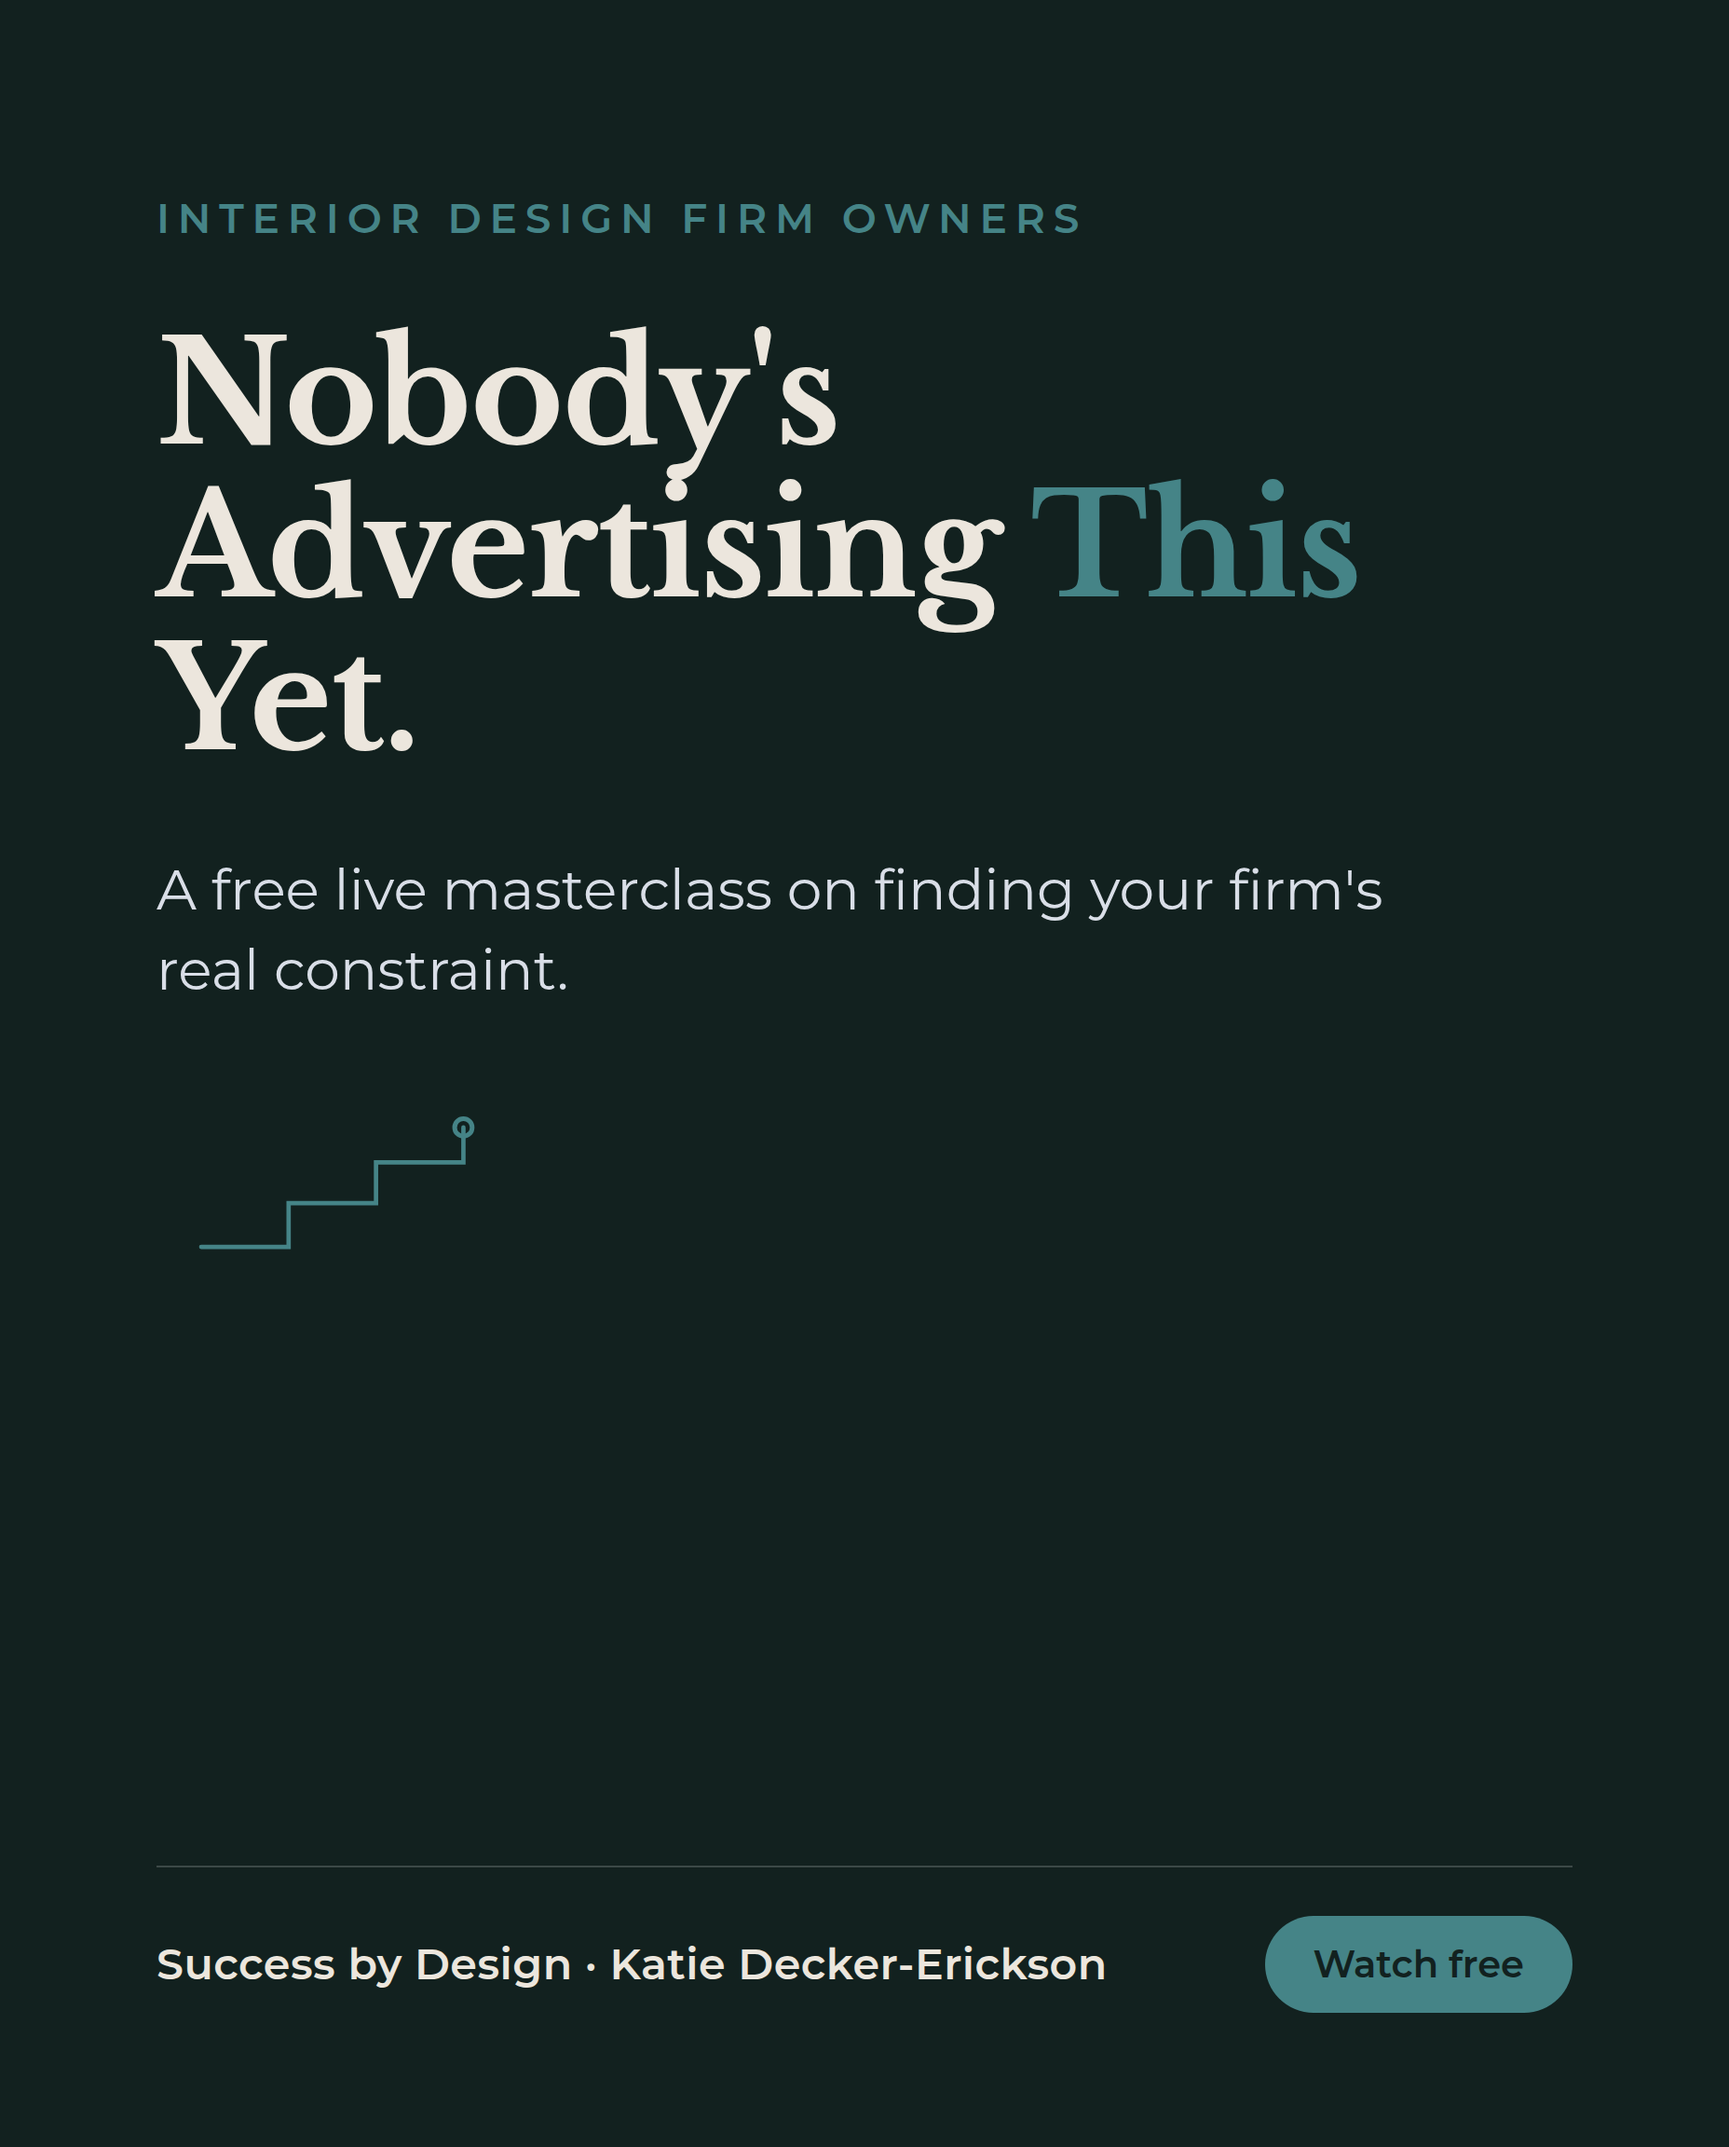
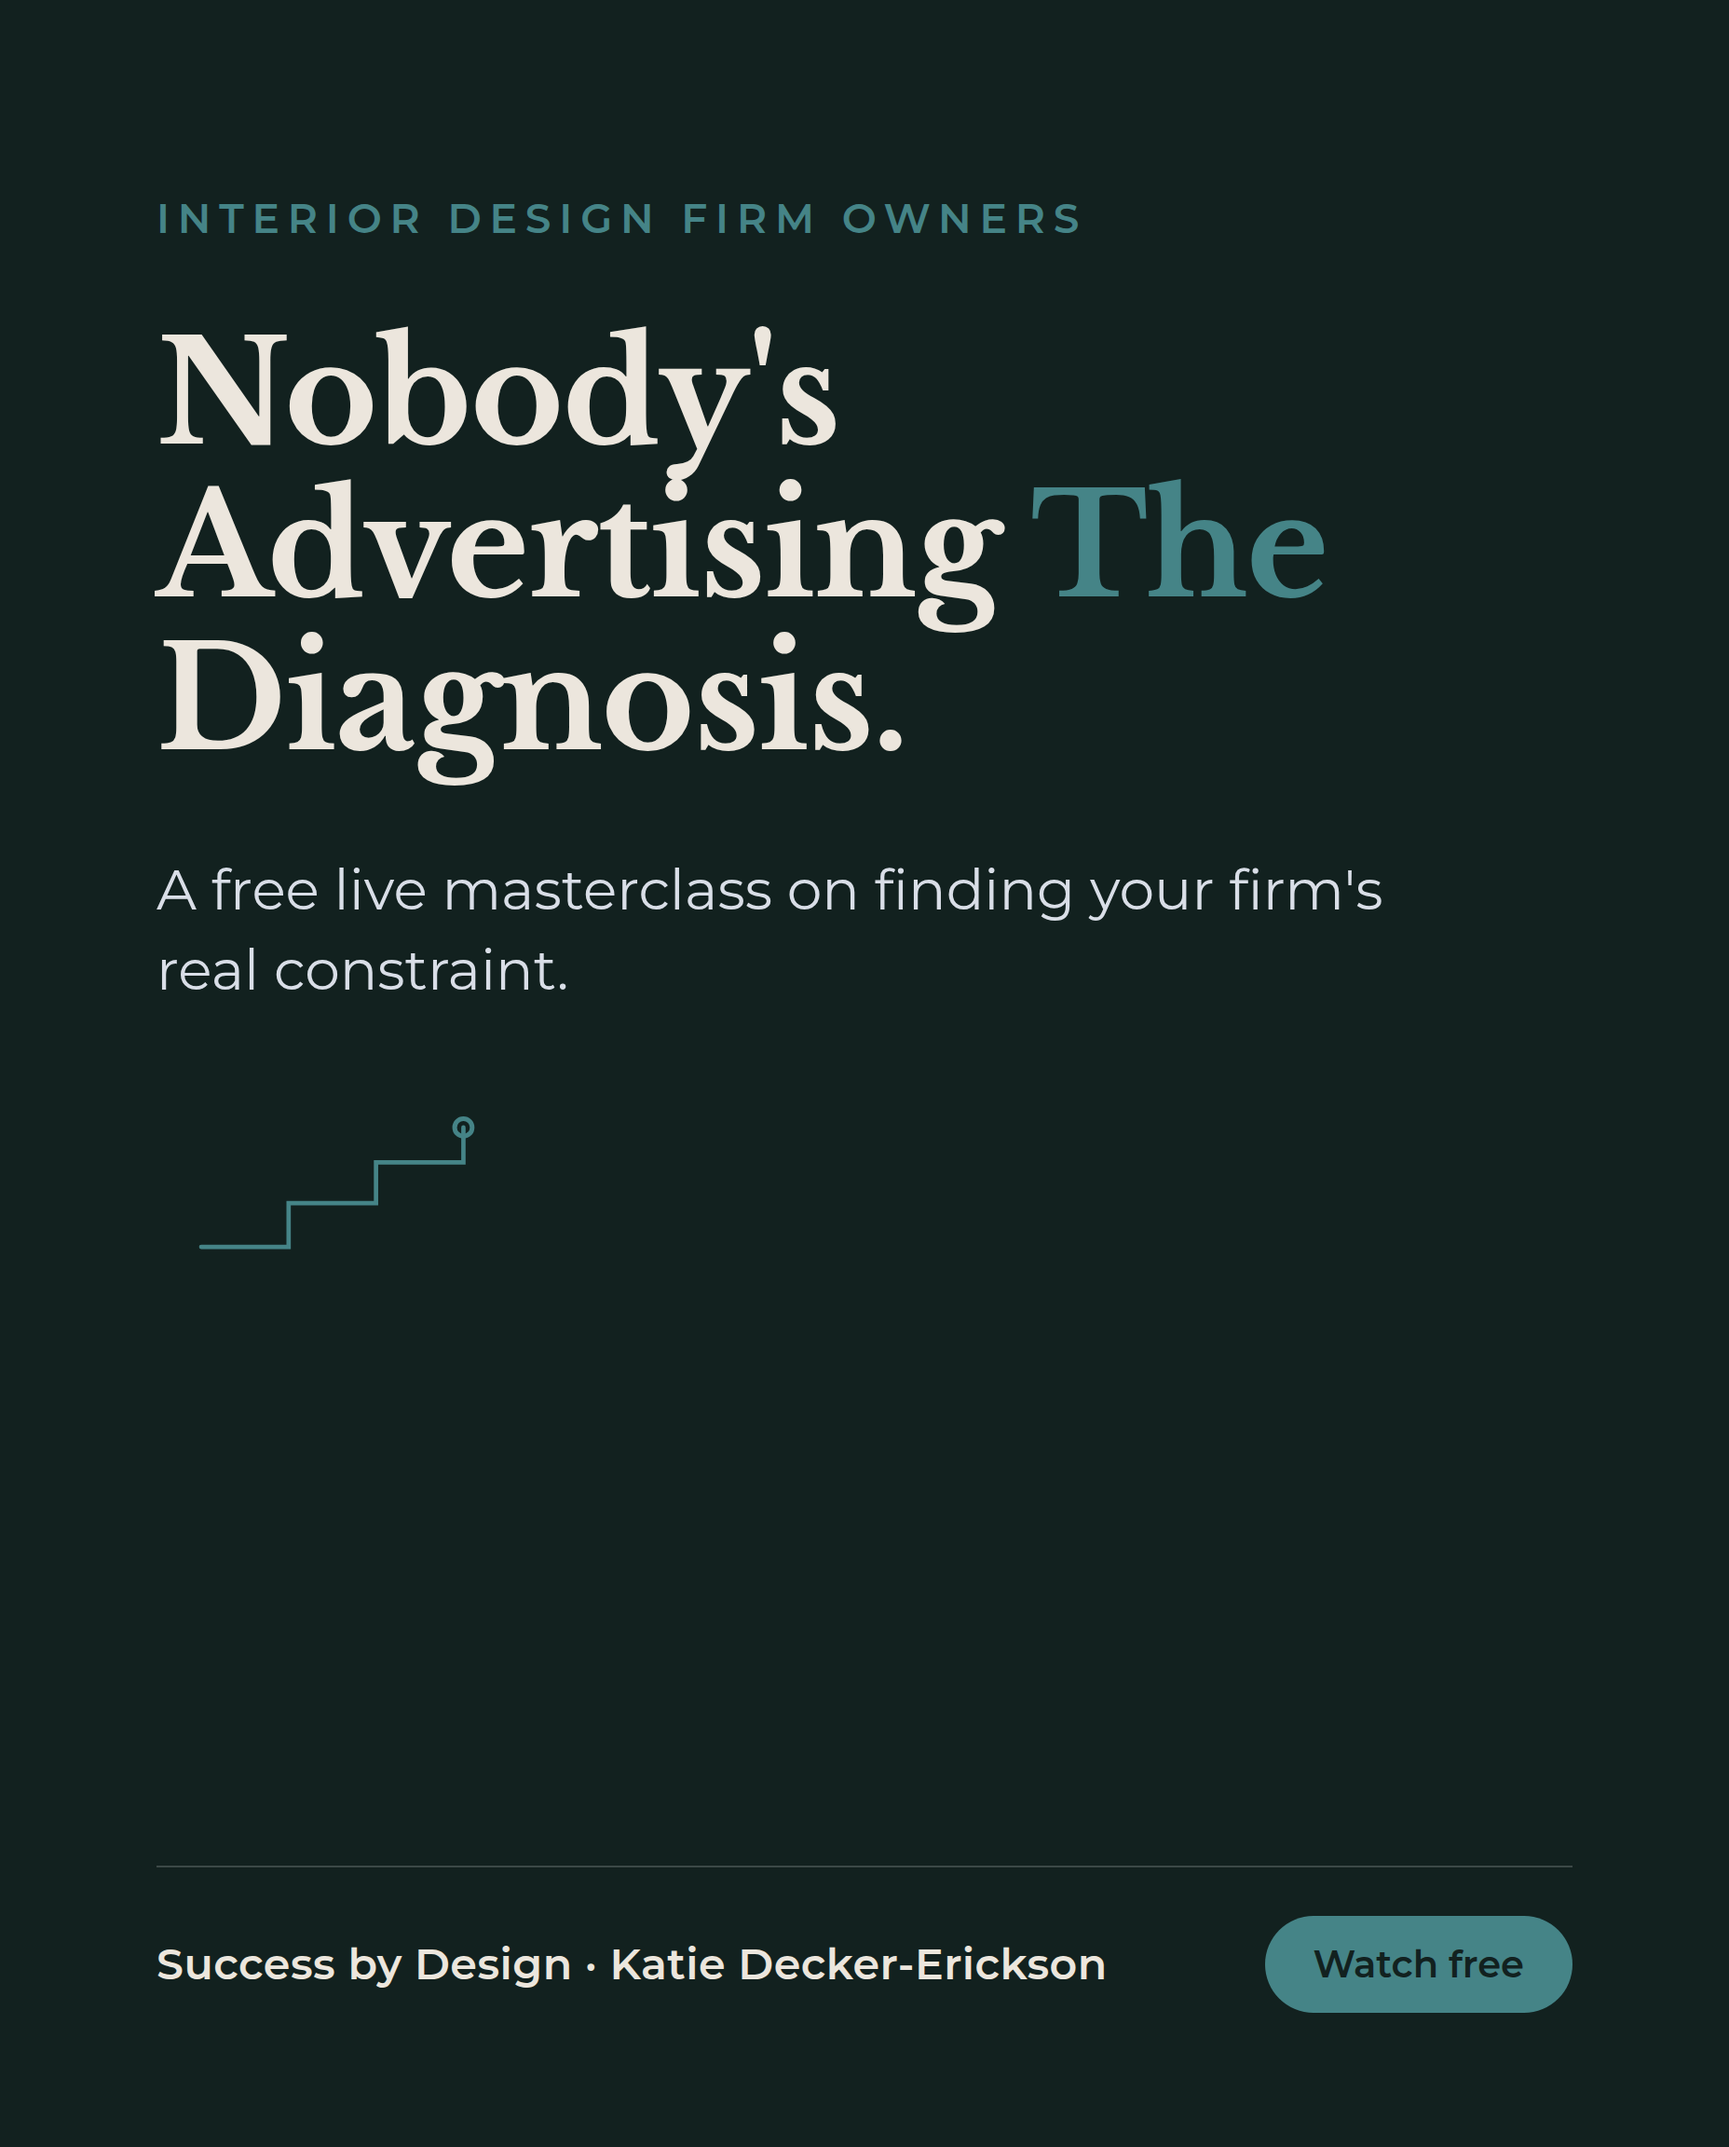
showcase: katie-decker-erickson

Changed region(s): [[0.0938, 0.2812, 0.5, 0.375], [0.7188, 0.2188, 0.7812, 0.2812]]

diff --git a/katie-decker-erickson/index.html b/katie-decker-erickson/index.html
@@ -88,7 +88,7 @@
     <p>Four ad directions in your own colors, built from your own material, written to stop an interior design firm owner mid-scroll.</p>
     <div class="ad-grid">
       <img src="/katie-decker-erickson/ad01.png" alt="Ad concept: Diagnose What's Actually Broken">
-      <img src="/katie-decker-erickson/ad02.png" alt="Ad concept: Nobody's Advertising This Yet">
+      <img src="/katie-decker-erickson/ad02.png" alt="Ad concept: Nobody's Advertising The Diagnosis">
       <img src="/katie-decker-erickson/ad03.png" alt="Ad concept: Stop Guessing What's Broken">
       <img src="/katie-decker-erickson/ad04.png" alt="Ad concept: The Business Health Diagnostic Masterclass invitation">
     </div>
@@ -113,7 +113,7 @@
         <tr class="hl"><td>New recurring revenue added each month</td><td>~$4,000 / mo</td><td>~$8,000 / mo</td></tr>
       </tbody>
     </table>
-    <p class="fn">Revenue modeled on your documented $2,000/month 3-month coaching rate, counted starting the month a client joins. Your 6-month ($1,800/mo), 12-month ($1,600/mo), and paid-in-full options both sit above this figure and are not counted, so this is the floor, not the ceiling.</p>
+    <p class="fn">Revenue modeled on your $2,000/month 3-month rate, the highest of your three published monthly rates. This table counts only a new client's first month; every month after that, on any tier, plus the paid-in-full options up to $17,280, is real revenue this table does not count.</p>
   </div>
 
   <div class="section">
